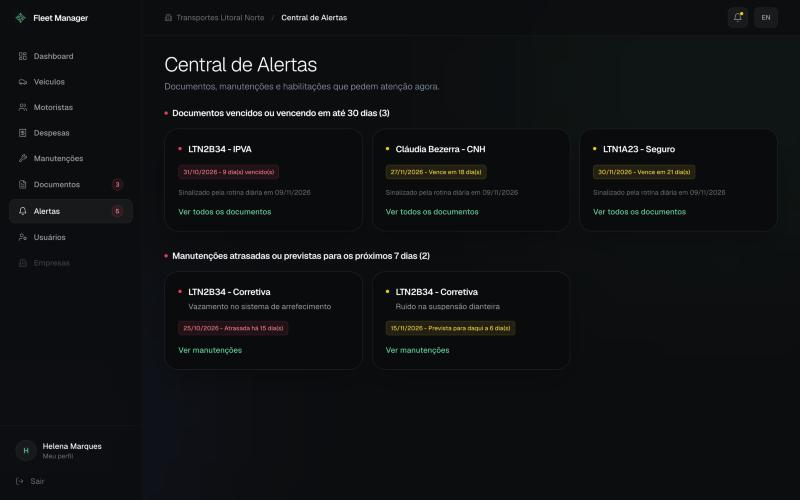
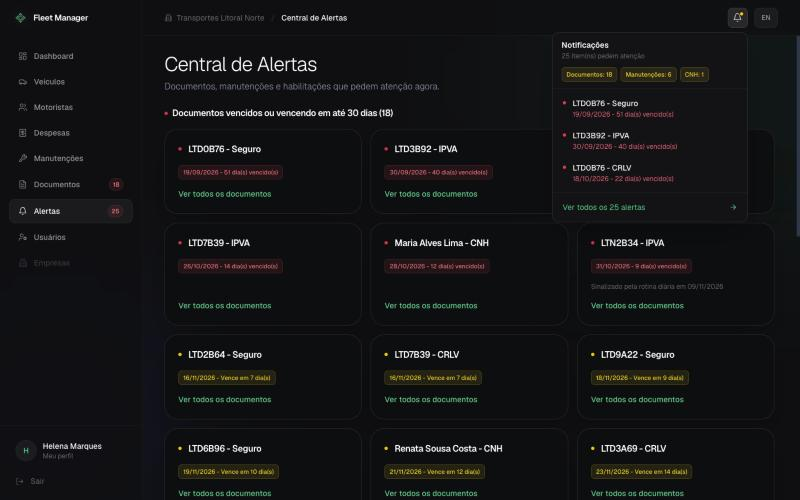
docs: painel, notificações, seleções e volume de demonstração
Documento Técnico (3.4, 4.6, 5.7, Apêndice C e Figuras 8 e 9 com
um ano de dados), README e diagnóstico da defesa atualizados.

diff --git a/scripts/gerar-documento.py b/scripts/gerar-documento.py
@@ -534,6 +534,12 @@ def cap3():
             ['Produção', 'O sistema publicado responde como o testado?',
              'Rotas, permissões, telas e carga moderada na Vercel']],
            larguras=[3.4, 6.0, 6.6])
+    p('Para a demonstração e os testes de interface, um *script* acrescenta às duas empresas '
+      'fictícias um ano de operação com datas relativas ao dia da execução: em cada uma, '
+      'dezoito veículos, catorze motoristas, solicitações de acesso pendentes e cerca de 1.250 '
+      'despesas, cem manutenções e sessenta documentos, com uma parte vencida ou atrasada. O '
+      '*script* usa semente fixa, de modo que repetir a execução gera os mesmos dados; não '
+      'altera o que já existe e pode ser desfeito por completo.')
     p('Os testes que gravam dados — os de ponta a ponta e os de carga — só executam contra o '
       'ambiente local, um Supabase completo em contêineres, isolado da produção; a suíte '
       'recusa iniciar se o endereço configurado não for local. Na produção, a verificação '
@@ -736,14 +742,17 @@ def cap4():
       'cinquenta registros por vez, com o total informado no cabeçalho X-Total-Count da '
       'resposta.')
     p('O painel de indicadores, apresentado na Figura {fig:tela_painel}, apura custo total, '
-      'custo médio, quantidade de lançamentos, evolução mensal, distribuição por categoria e '
-      'custo por veículo, com filtros por período, veículo e categoria. Todas as somas são '
-      'feitas no banco, que devolve apenas os totais.')
+      'custo médio, quantidade de lançamentos, evolução mensal, distribuição por categoria, os '
+      'veículos de maior custo e os lançamentos mais recentes, com filtros por período, '
+      'veículo e categoria. Cada indicador financeiro vem acompanhado da variação em relação '
+      'ao período imediatamente anterior, de mesma duração, o que mostra se o custo subiu ou '
+      'caiu sem exigir outra consulta. Todas as somas são feitas no banco, que devolve apenas '
+      'os totais.')
     # Capturas da interface, feitas no ambiente local com os dados fictícios do
     # seed. Ficam em docs/academico/telas/, versionadas: não são geradas por
     # script, ao contrário dos diagramas.
     figura('tela_painel', os.path.join('..', 'telas', 'tela-painel.png'),
-           'Painel de indicadores, visto pelo administrador')
+           'Painel de indicadores com um ano de operação fictícia')
     p('A central de alertas, apresentada na Figura {fig:tela_alertas}, responde à pergunta '
       '"o que precisa ser resolvido agora" em três frentes: documentos vencidos ou que vencem '
       'em até trinta dias; manutenções atrasadas ou previstas para os próximos sete dias; e '
@@ -751,13 +760,24 @@ def cap4():
       'porque a data é escolhida pela própria empresa, com antecedência curta; a de documentos '
       'e habilitações é maior porque a renovação depende de terceiros. Quando a mesma '
       'habilitação existe como documento anexado e como validade na ficha do motorista, ela '
-      'aparece uma única vez. O menu exibe a contagem de cada frente.')
+      'aparece uma única vez. O menu lateral exibe o total de alertas e o de documentos.')
+    p('O sino do cabeçalho abre, por cima da tela em que se está, um painel de notificações '
+      'com a contagem de cada frente e os três alertas mais urgentes — primeiro o que já '
+      'venceu ou atrasou, depois o prazo mais próximo. Cada item leva à tela correspondente, '
+      'e o rodapé leva à central completa. São duas visões do mesmo dado: o painel responde '
+      'ao que é mais urgente sem tirar o usuário do que estava fazendo; a central mostra '
+      'tudo.')
     figura('tela_alertas', os.path.join('..', 'telas', 'tela-central-alertas.png'),
-           'Central de alertas, com documentos e manutenções que exigem ação')
+           'Central de alertas, com o painel de notificações do cabeçalho aberto')
     p('A administração de usuários permite aprovar e recusar solicitações, alterar papel e '
       'situação e excluir contas; o perfil de administração da plataforma dispõe ainda de tela '
       'para cadastrar empresas. A interface segue o *design system* Ledger, de fundo escuro e '
-      'um único destaque de cor, e está disponível em português brasileiro e em inglês.')
+      'um único destaque de cor, e está disponível em português brasileiro e em inglês. As '
+      'listas de seleção dos filtros e formulários são componentes do próprio sistema, e não '
+      'as do navegador: a lista nativa é desenhada pelo sistema operacional e destoava da '
+      'interface. O componente mantém o uso por teclado — setas, Enter, Esc e a busca pela '
+      'primeira letra — e a validação de campo obrigatório. Trocar de tela pelo menu é '
+      'imediato; a animação de entrada fica restrita à primeira tela depois do login.')
 
     h2('4.7 Armazenamento de arquivos')
     p('O anexo de arquivos aos documentos utiliza o serviço de armazenamento do Supabase. O '
@@ -1282,7 +1302,8 @@ def cap5():
     h2('5.7 Limitações e discussão')
     p('A principal limitação do trabalho é de natureza metodológica: o sistema não foi aplicado '
       'em uma organização real. A validação empregou base de dados fictícia, ainda que '
-      'consistente e gerada por rotina automatizada. Em consequência, os benefícios pretendidos '
+      'consistente, gerada por rotina automatizada e com volume de um ano de operação. Em '
+      'consequência, os benefícios pretendidos '
       '— redução de sanções por documentação vencida, migração da manutenção corretiva para a '
       'preventiva e visibilidade do custo por veículo — permanecem como expectativas '
       'fundamentadas, e não como resultados medidos. A comprovação empírica demandaria adoção '
@@ -1691,6 +1712,8 @@ def apendice_c():
         'criar o banco e os dados fictícios: npm run db:migrate e npm run db:seed;',
         'suíte padrão, com os testes unitários e de integração: npm run test:api;',
         'suíte de ponta a ponta: npm run test:e2e;',
+        'volume de demonstração, com um ano de operação: npm run db:popular, desfeito por npm '
+        'run db:popular -- --remover;',
         'cobertura das duas suítes juntas: npx vitest run --config '
         'vitest.cobertura.config.mts --coverage, na pasta apps/api;',
         '*workload* misto, com a aplicação compilada no ar: npm run carga:workload, na pasta '

diff --git a/docs/academico/Ensaio da defesa - alinhamento.md b/docs/academico/Ensaio da defesa - alinhamento.md
@@ -26,6 +26,14 @@
 6. **Banco de produção.** A migration `0007` (coluna `alert_sent_at`) só foi aplicada no banco local. Com o segredo `PRODUCAO_DIRECT_URL` cadastrado, o job `publicar` a aplica antes de publicar. Sem ele, rode `npm run db:migrate` com o `.env` de produção antes do push.
 7. **Relatório de Testes de 20/10** (PDF separado): continua com os números daquela rodada. O Documento Técnico agora traz as duas rodadas, cada tabela com a data.
 
+### Melhorias de 09/11 (tarde)
+
+- **Listas de seleção no design system.** As 23 seleções nativas foram trocadas por um componente próprio (`components/ledger/Select.tsx`), com teclado, busca pela primeira letra e validação de obrigatório.
+- **Sino com painel de notificações.** Mostra a contagem por frente e os três alertas mais urgentes, sem sair da tela, com atalho para a central.
+- **Troca de aba imediata.** A animação de entrada ficou só na primeira tela.
+- **Volume de demonstração.** `npm run db:popular` cria um ano de operação nas duas empresas. Para a apresentação, rode-o contra a produção (passo a passo no README).
+- **Documento.** Seções 3.4, 4.6 e 5.7 e as Figuras 8 e 9 atualizadas.
+
 ---
 
 ## 2. A balança: o que foi para cada lado

diff --git a/README.md b/README.md
@@ -422,7 +422,17 @@ SEED_PASSWORD="<senha>"
 > Use aspas em `SEED_PASSWORD` se a senha tiver `#`: sem elas o dotenv lê o
 > resto da linha como comentário e a senha gravada fica truncada.
 
-Depois, `npm run db:migrate` e `npm run db:seed`. Para recriar a base local do
+Depois, `npm run db:migrate` e `npm run db:seed`.
+
+**Volume de demonstração.** `npm run db:popular` acrescenta às duas empresas do
+seed um ano de operação, com datas relativas a hoje: em cada uma, 18 veículos
+(placas `LTD…`/`STD…`), 14 motoristas, 5 solicitações de acesso e cerca de
+1.250 despesas, 100 manutenções e 66 documentos, com uma parte vencida ou
+atrasada para a central de alertas. Usa semente fixa, não altera o que já
+existe, pula a empresa já populada e é desfeito por
+`npm run db:popular -- --remover`.
+
+Para recriar a base local do
 zero, `npx supabase db reset` substitui o `db:reset` — que só reconhece URLs
 `https://<ref>.supabase.co`. Para desligar: `npx supabase stop`.
 
